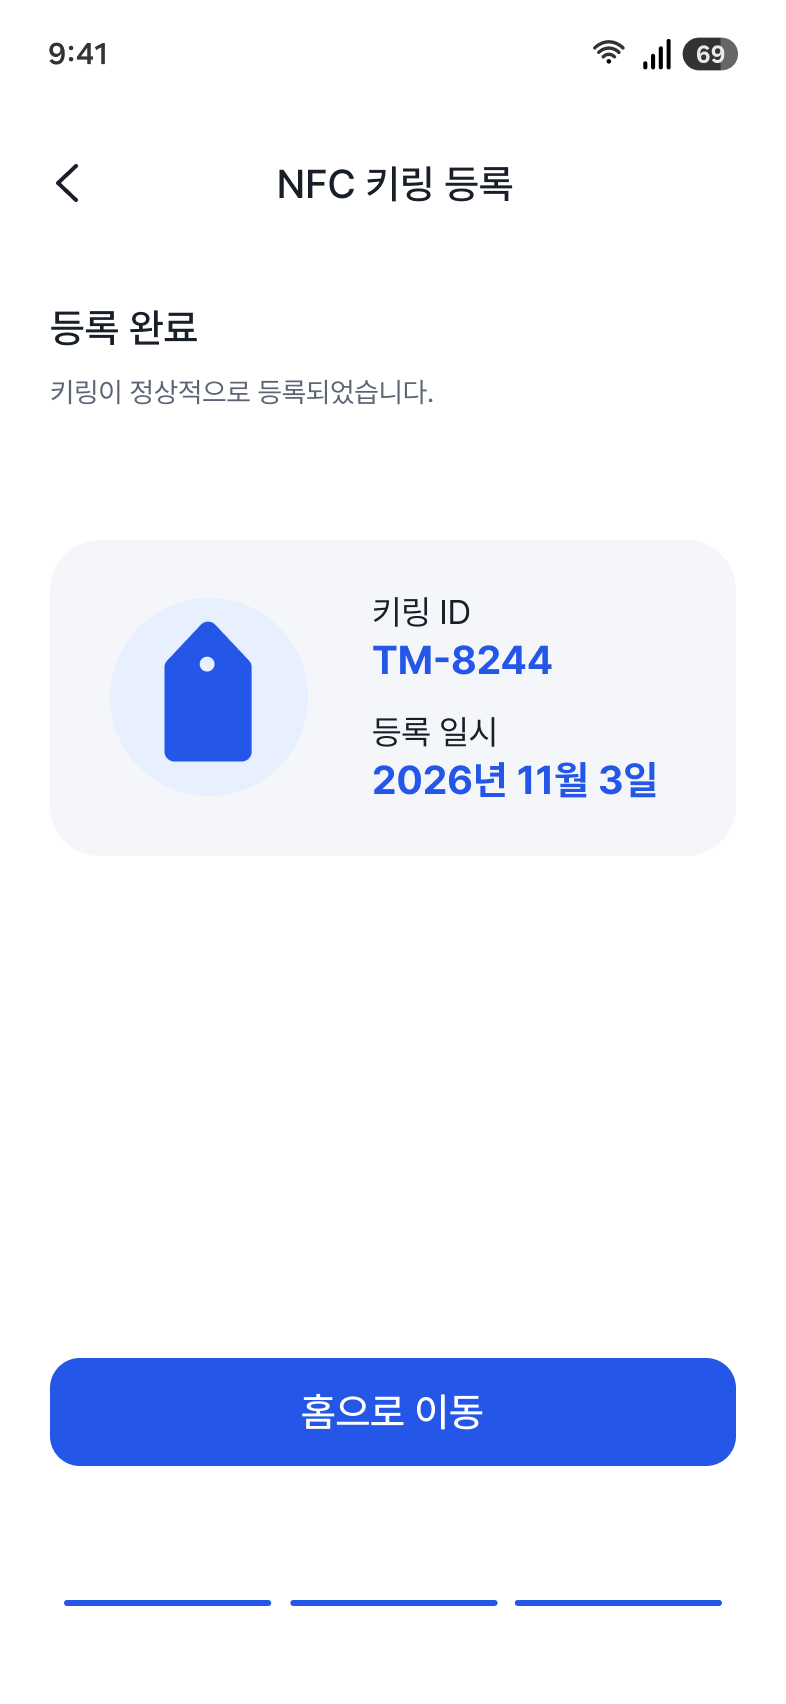
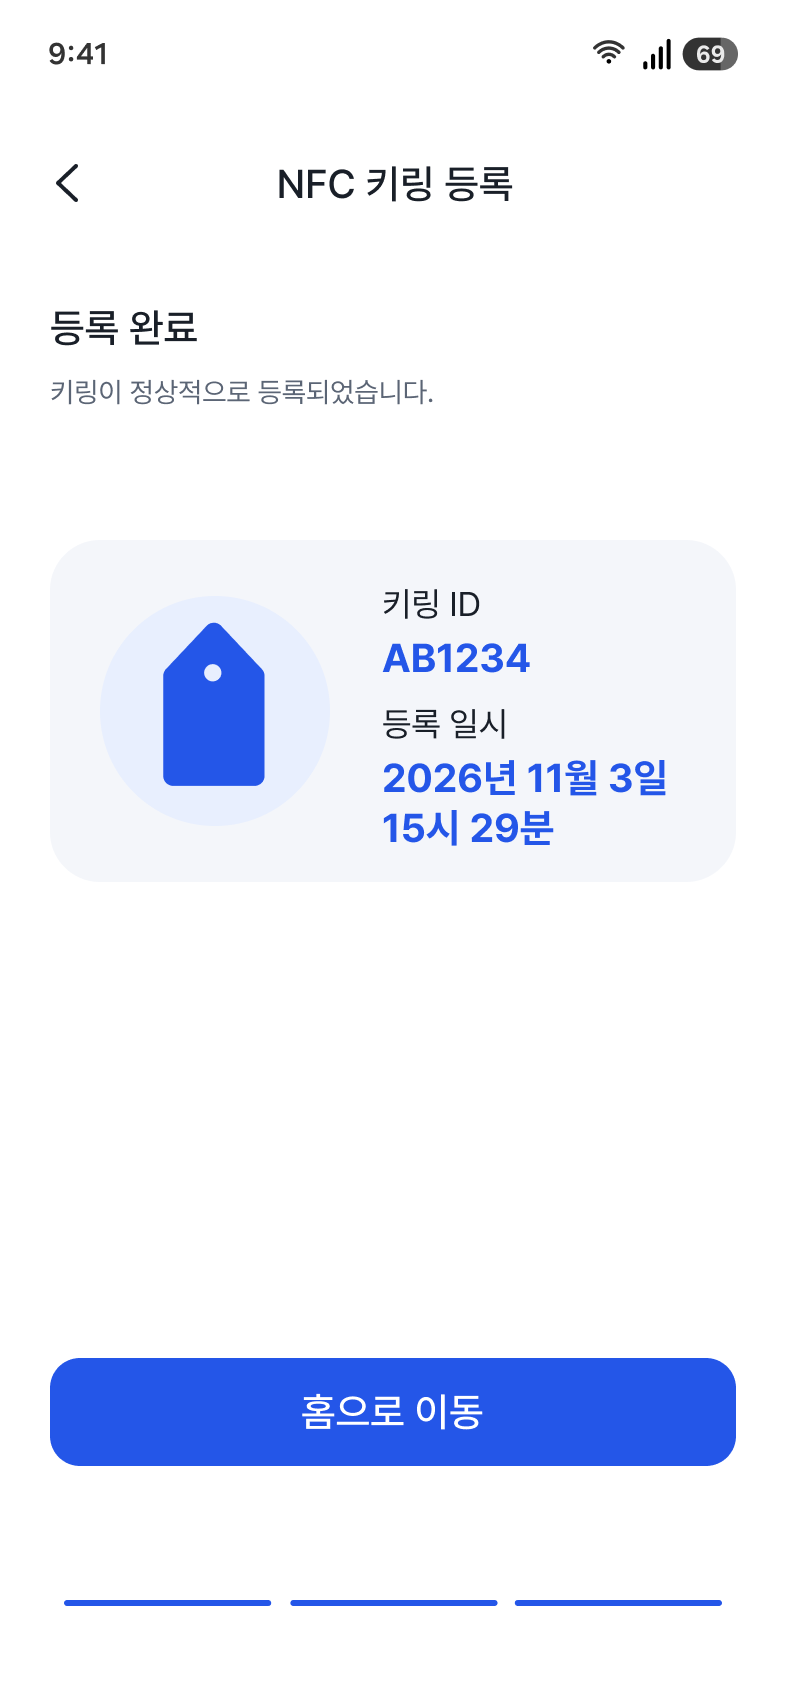
feat: NFC 등록 완료 화면 구현 및 07-08 화면 연결

Changed region(s): [[0.458, 0.3421, 0.855, 0.4977], [0.1832, 0.3732, 0.3359, 0.4665]]

diff --git a/src/pages/onboarding/NfcCompletePage.jsx b/src/pages/onboarding/NfcCompletePage.jsx
@@ -1,0 +1,120 @@
+import styled from 'styled-components'
+import OnboardingLayout from '../../components/onboarding/OnboardingLayout'
+import OnboardingHeader from '../../components/onboarding/OnboardingHeader'
+import OnboardingFooter from '../../components/onboarding/OnboardingFooter'
+import IconCard from '../../components/onboarding/IconCard'
+import { onboardingColors } from '../../styles/onboarding/colors'
+import { formatKoreanDate, formatKoreanTime, toDateTimeAttribute } from '../../utils/formatDateTime'
+import keyringIcon from '../../assets/icons/icon-keyring.svg'
+
+// 08만 따로 열었을 때의 기본값
+const DEFAULT_KEYRING_ID = 'AB1234'
+const DEFAULT_REGISTERED_AT = new Date(2026, 10, 3, 15, 29)
+
+// 키링 아이콘: 파일(36x57) 안 그림은 35.23 x 56.05.
+// 그림 가로를 50.64로 맞추려면 이미지 상자 가로 = 36 x 50.64 / 35.23
+const KEYRING_ICON_WIDTH = (36 * 50.64) / 35.23
+
+const Content = styled.div`
+  display: flex;
+  flex: 1;
+  flex-direction: column;
+  padding: 0 25px;
+`
+
+// 헤더 아래 첫 텍스트 (y=145). 상자 x=25, 높이 38
+const Title = styled.h2`
+  margin: 0;
+  font-size: 20px;
+  font-weight: 500;
+  line-height: 38px;
+`
+
+// 피그마 텍스트 상자: 높이 72, 줄 높이 24 (글자는 위쪽 정렬)
+const Description = styled.p`
+  height: 72px;
+  margin: 1px 0 0;
+  color: ${onboardingColors.textSub};
+  font-size: 14px;
+  font-weight: 400;
+  line-height: 24px;
+`
+
+// 카드 y 270 (설명 끝 256 + 14)
+const ResultCard = styled(IconCard)`
+  margin-top: 14px;
+`
+
+const InfoList = styled.dl`
+  margin: 0;
+`
+
+// 이름표: 17px Regular, 상자 높이 20
+const InfoLabel = styled.dt`
+  font-size: 17px;
+  font-weight: 400;
+  line-height: 20px;
+  color: ${onboardingColors.text};
+
+  /* "키링 ID" 묶음 → "등록 일시" 묶음 간격 */
+  & + dd + & {
+    margin-top: 10px;
+  }
+`
+
+// 값: 20px Bold, 줄 높이 25. 이름표와 간격 5
+const InfoValue = styled.dd`
+  margin: 5px 0 0;
+  font-size: 20px;
+  font-weight: 700;
+  line-height: 25px;
+  color: ${onboardingColors.cardValue};
+`
+
+// keyringId: 07에서 입력한 코드 / registeredAt: 07에서 "다음"을 누른 시각(Date)
+// "홈으로 이동"은 아직 동작 없음.
+export default function NfcCompletePage({
+  keyringId = DEFAULT_KEYRING_ID,
+  registeredAt = DEFAULT_REGISTERED_AT,
+}) {
+  return (
+    <OnboardingLayout withStatusBar>
+      <OnboardingHeader title="NFC 키링 등록" />
+      <Content>
+        <Title>등록 완료</Title>
+        <Description>키링이 정상적으로 등록되었습니다.</Description>
+        <ResultCard
+          icon={keyringIcon}
+          iconWidth={KEYRING_ICON_WIDTH}
+          iconOffsetY={2.68}
+          bodyOffsetY={4}
+          height={171}
+          radius={30}
+          circleSize={115}
+          paddingLeft={25}
+          gap={26}
+        >
+          <InfoList>
+            <InfoLabel>키링 ID</InfoLabel>
+            <InfoValue>{keyringId}</InfoValue>
+            <InfoLabel>등록 일시</InfoLabel>
+            <InfoValue>
+              <time dateTime={toDateTimeAttribute(registeredAt)}>
+                {formatKoreanDate(registeredAt)}
+                <br />
+                {formatKoreanTime(registeredAt)}
+              </time>
+            </InfoValue>
+          </InfoList>
+        </ResultCard>
+        <OnboardingFooter
+          primaryLabel="홈으로 이동"
+          showBack={false}
+          step={3}
+          totalSteps={3}
+          progressLabel="NFC 키링 등록 단계"
+        />
+      </Content>
+    </OnboardingLayout>
+  )
+}

diff --git a/src/components/onboarding/IconCard.jsx b/src/components/onboarding/IconCard.jsx
@@ -10,7 +10,7 @@ const Card = styled.div`
   margin: 0;
   padding: 0 0 0 ${({ $paddingLeft }) => $paddingLeft}px;
   border: none;
-  border-radius: 25px;
+  border-radius: ${({ $radius }) => $radius}px;
   background: ${onboardingColors.cardBackground};
   color: inherit;
   font: inherit;
@@ -57,11 +57,18 @@ const Icon = styled.img`
   transform: translateY(${({ $offsetY }) => -$offsetY}px);
 `
 
+// 글자 영역: 누를 수 있는 카드(<button>) 안에서는 <span>, 보기만 하는 카드에서는 <div>
 const Body = styled.span`
   display: flex;
   flex: 1;
   flex-direction: column;
   min-width: 0;
+
+  ${({ $offsetY }) =>
+    $offsetY !== 0 &&
+    css`
+      transform: translateY(${$offsetY}px);
+    `}
 `
 
 // 회색 카드 + 연파랑 원 아이콘. 글자 구성은 children으로 화면마다 채운다.
@@ -69,12 +76,16 @@ const Body = styled.span`
 // - icon: 아이콘 이미지 경로 (import한 svg)
 // - iconWidth: 아이콘 가로(px). 생략하면 파일 원래 크기
 // - iconOffsetY: 아이콘을 원 가운데에서 위로 올리는 정도(px)
+// - bodyOffsetY: 글자 묶음을 카드 세로 가운데에서 아래로 옮기는 정도(px)
+// - radius: 카드 둥글기(px)
 // - onClick: 있으면 누를 수 있는 <button>, 없으면 보기만 하는 <div>
 export default function IconCard({
   icon,
   iconWidth,
   iconOffsetY = 0,
+  bodyOffsetY = 0,
   height = 136,
+  radius = 25,
   circleSize = 80,
   paddingLeft = 27,
   gap = 23.81,
@@ -92,13 +103,16 @@ export default function IconCard({
       className={className}
       $clickable={clickable}
       $height={height}
+      $radius={radius}
       $paddingLeft={paddingLeft}
       $gap={gap}
     >
       <Circle $size={circleSize}>
         <Icon src={icon} alt="" $width={iconWidth} $offsetY={iconOffsetY} />
       </Circle>
-      <Body>{children}</Body>
+      <Body as={clickable ? 'span' : 'div'} $offsetY={bodyOffsetY}>
+        {children}
+      </Body>
     </Card>
   )
 }

diff --git a/src/components/onboarding/PrimaryButton.jsx b/src/components/onboarding/PrimaryButton.jsx
@@ -1,9 +1,19 @@
-import styled from 'styled-components'
+import styled, { css } from 'styled-components'
 import { onboardingColors } from '../../styles/onboarding/colors'
 
+// 비활성일 때 누르면 버튼 동작·폼 제출을 막는다
+const preventClick = (e) => e.preventDefault()
+
 // 온보딩 파란 큰 버튼 (343 x 54)
-const PrimaryButton = styled.button.attrs(({ type }) => ({
+// disabled: 비활성 모양 + 눌러도 동작 없음.
+//   HTML disabled 대신 aria-disabled를 써서 키보드 이동 순서에 남고,
+//   화면 읽기 프로그램은 "비활성"으로 읽는다.
+const PrimaryButton = styled.button.attrs(({ type, disabled, onClick }) => ({
   type: type ?? 'button',
+  disabled: undefined,
+  'aria-disabled': disabled ? 'true' : undefined,
+  onClick: disabled ? preventClick : onClick,
+  $disabled: Boolean(disabled),
 }))`
   display: block;
   width: 100%;
@@ -30,6 +40,19 @@ const PrimaryButton = styled.button.attrs(({ type }) => ({
     outline: 2px solid ${onboardingColors.text};
     outline-offset: 2px;
   }
+
+  /* 비활성: 누르는 동안의 효과도 없음 */
+  ${({ $disabled }) =>
+    $disabled &&
+    css`
+      background: ${onboardingColors.primaryDisabled};
+      color: ${onboardingColors.onPrimaryDisabled};
+      cursor: default;
+
+      &:active {
+        background: ${onboardingColors.primaryDisabled};
+      }
+    `}
 `
 
 export default PrimaryButton

diff --git a/src/pages/onboarding/NfcCodePage.jsx b/src/pages/onboarding/NfcCodePage.jsx
@@ -36,11 +36,21 @@ const CodeArea = styled.div`
   margin: 14px 0 0 22px;
 `
 
-// 화면만 구현 (다음·이전으로 화면 이동 없음)
-export default function NfcCodePage() {
+const CODE_FORMAT = 'AA9999'
+
+// onNext({ code, registeredAt }): 6자리가 다 찬 뒤 "다음"을 누르면 호출.
+//   화면 이동은 이 화면을 쓰는 쪽(NfcRegisterFlow)이 맡는다. 없으면 동작 없음.
+// "이전으로"는 아직 동작 없음.
+export default function NfcCodePage({ onNext }) {
   const titleId = useId()
   const descriptionId = useId()
   const [code, setCode] = useState('')
+  const isComplete = code.length === CODE_FORMAT.length
+
+  const handleNext = () => {
+    if (!isComplete) return
+    onNext?.({ code, registeredAt: new Date() })
+  }
 
   return (
     <OnboardingLayout withStatusBar>
@@ -54,13 +64,15 @@ export default function NfcCodePage() {
           <CodeInput
             value={code}
             onChange={setCode}
-            format="AA9999"
+            format={CODE_FORMAT}
             labelledBy={titleId}
             describedBy={descriptionId}
           />
         </CodeArea>
         <OnboardingFooter
           primaryLabel="다음"
+          primaryDisabled={!isComplete}
+          onPrimaryClick={handleNext}
           step={2}
           totalSteps={3}
           progressLabel="NFC 키링 등록 단계"

diff --git a/src/components/onboarding/OnboardingFooter.jsx b/src/components/onboarding/OnboardingFooter.jsx
@@ -60,12 +60,14 @@ const Progress = styled(ProgressBar)`
 
 // 05~08 하단 버튼 영역
 // - primaryLabel / onPrimaryClick / primaryType: 파란 버튼
+// - primaryDisabled: 파란 버튼 비활성 (07: 코드 6자리가 다 차기 전)
 // - showBack: "이전으로" 표시 여부 (08은 false)
 // - step / totalSteps: 진행 막대 (step이 없으면 그리지 않음)
 export default function OnboardingFooter({
   primaryLabel,
   onPrimaryClick,
   primaryType = 'button',
+  primaryDisabled = false,
   showBack = true,
   backLabel = '이전으로',
   onBackClick,
@@ -75,7 +77,7 @@ export default function OnboardingFooter({
 }) {
   return (
     <Footer>
-      <PrimaryButton type={primaryType} onClick={onPrimaryClick}>
+      <PrimaryButton type={primaryType} onClick={onPrimaryClick} disabled={primaryDisabled}>
         {primaryLabel}
       </PrimaryButton>
       {showBack && <BackButton onClick={onBackClick}>{backLabel}</BackButton>}

diff --git a/src/pages/onboarding/NfcRegisterFlow.jsx b/src/pages/onboarding/NfcRegisterFlow.jsx
@@ -1,0 +1,21 @@
+import { useState } from 'react'
+import NfcCodePage from './NfcCodePage'
+import NfcCompletePage from './NfcCompletePage'
+
+// NFC 키링 등록 07(코드 입력) → 08(등록 완료) 화면 전환.
+// 화면 이동 라이브러리 없이 상태 하나로 어떤 화면을 보여 줄지 정한다.
+// 각 화면은 이동 방법을 모르고 props/콜백만 쓴다 →
+// 나중에 react-router를 도입하면 이 파일만 경로(Route)로 바꾸면 된다.
+export default function NfcRegisterFlow() {
+  const [result, setResult] = useState(null) // { keyringId, registeredAt }
+
+  if (result) {
+    return <NfcCompletePage keyringId={result.keyringId} registeredAt={result.registeredAt} />
+  }
+
+  return (
+    <NfcCodePage
+      onNext={({ code, registeredAt }) => setResult({ keyringId: code, registeredAt })}
+    />
+  )
+}

diff --git a/src/utils/formatDateTime.js b/src/utils/formatDateTime.js
@@ -1,0 +1,20 @@
+// 한국어 날짜·시간 표시 (24시간, 앞자리 0 없음)
+
+// 2026년 11월 3일
+export function formatKoreanDate(date) {
+  return `${date.getFullYear()}년 ${date.getMonth() + 1}월 ${date.getDate()}일`
+}
+
+// 15시 29분 / 9시 5분
+export function formatKoreanTime(date) {
+  return `${date.getHours()}시 ${date.getMinutes()}분`
+}
+
+// <time datetime>용 값: 2026-11-03T15:29 (분까지, 현지 시각)
+export function toDateTimeAttribute(date) {
+  const pad = (n) => String(n).padStart(2, '0')
+  return (
+    `${date.getFullYear()}-${pad(date.getMonth() + 1)}-${pad(date.getDate())}` +
+    `T${pad(date.getHours())}:${pad(date.getMinutes())}`
+  )
+}

diff --git a/src/styles/onboarding/colors.js b/src/styles/onboarding/colors.js
@@ -4,12 +4,15 @@ export const onboardingColors = {
   textSub: '#5B6575',
   primary: '#2456E8',
   primaryPressed: '#1A40B8',
+  primaryDisabled: '#F4F6FA',
+  onPrimaryDisabled: '#5B6575',
   onPrimary: '#FFFFFF',
   background: '#FFFFFF',
   inputBackground: '#F4F6FA',
   cardBackground: '#F4F6FA',
   cardPressed: '#DEE1E9',
   iconCircle: '#E8EFFE',
+  cardValue: '#2456E8',
   choiceBackground: '#F4F6FA',
   choiceSelected: '#DEE1E9',
   choicePressed: '#DEE1E9',

diff --git a/src/App.jsx b/src/App.jsx
@@ -1,5 +1,5 @@
-import NfcCodePage from './pages/onboarding/NfcCodePage.jsx'
+import NfcRegisterFlow from './pages/onboarding/NfcRegisterFlow.jsx'
 
 export default function App() {
-  return <NfcCodePage />
+  return <NfcRegisterFlow />
 }
